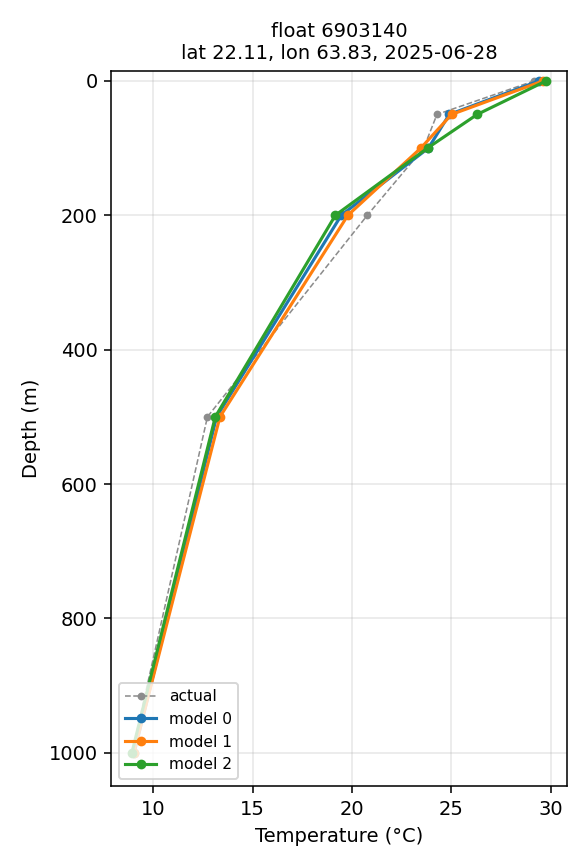
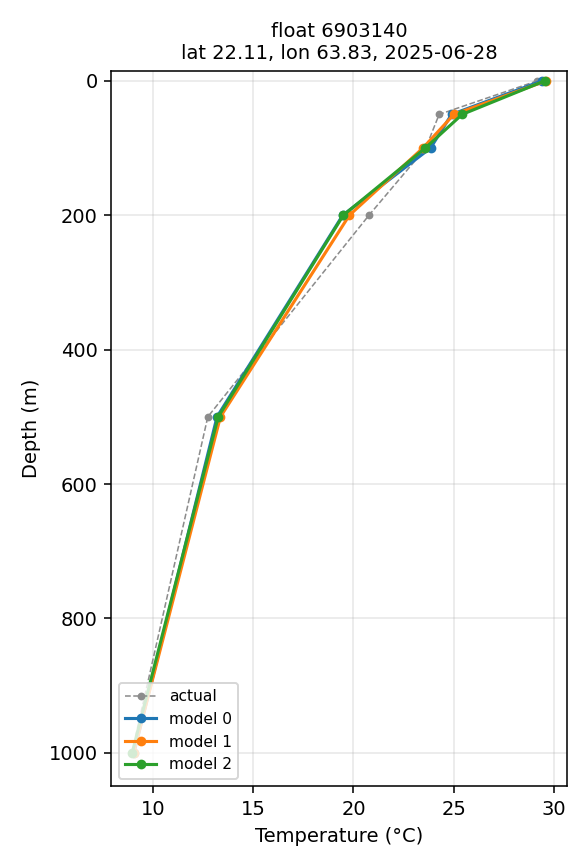
evaluate.py: re-add centred-target mean to MLP predictions; README: fresh model metrics, offline-snapshot section, de-dup

diff --git a/src/evaluation/evaluate.py b/src/evaluation/evaluate.py
@@ -156,6 +156,10 @@ def main(argv: list[str] | None = None) -> int:
 
     if use_deep:
         pred = mlp.predict(scaler.transform(X), verbose=0)
+        if meta_path.exists():
+            target_mean = np.asarray(meta.get("targets_mean", []), dtype=float)
+            if target_mean.size == Y.shape[1]:
+                pred = pred + target_mean  # model predicts centred targets
         outputs["pred"]["mlp"] = pred
         for i, t in enumerate(targets):
             m = metrics(Y[:, i], pred[:, i])

diff --git a/reports/results_summary.md b/reports/results_summary.md
@@ -16,12 +16,12 @@ model    depth_m  rmse   mae    r2
   xgb  temp_200m 1.158 0.831 0.632
   xgb  temp_500m 0.406 0.286 0.898
   xgb temp_1000m 0.211 0.169 0.955
-  mlp    temp_0m 0.851 0.637 0.744
-  mlp   temp_50m 1.307 0.989 0.650
-  mlp  temp_100m 1.762 1.356 0.289
-  mlp  temp_200m 1.064 0.852 0.689
-  mlp  temp_500m 0.380 0.299 0.911
-  mlp temp_1000m 0.314 0.257 0.902
+  mlp    temp_0m 0.290 0.210 0.970
+  mlp   temp_50m 0.887 0.639 0.839
+  mlp  temp_100m 1.715 1.290 0.326
+  mlp  temp_200m 1.154 0.837 0.635
+  mlp  temp_500m 0.400 0.269 0.901
+  mlp temp_1000m 0.203 0.164 0.959
 
 These are fully real-data results: no synthetic training samples anywhere. The surface feature set is the one present after ingestion (lat, lon, month, sst, ssh, sss); missing optional sources (SSH/SSS) simply drop out of the features (documented degraded mode).
 
